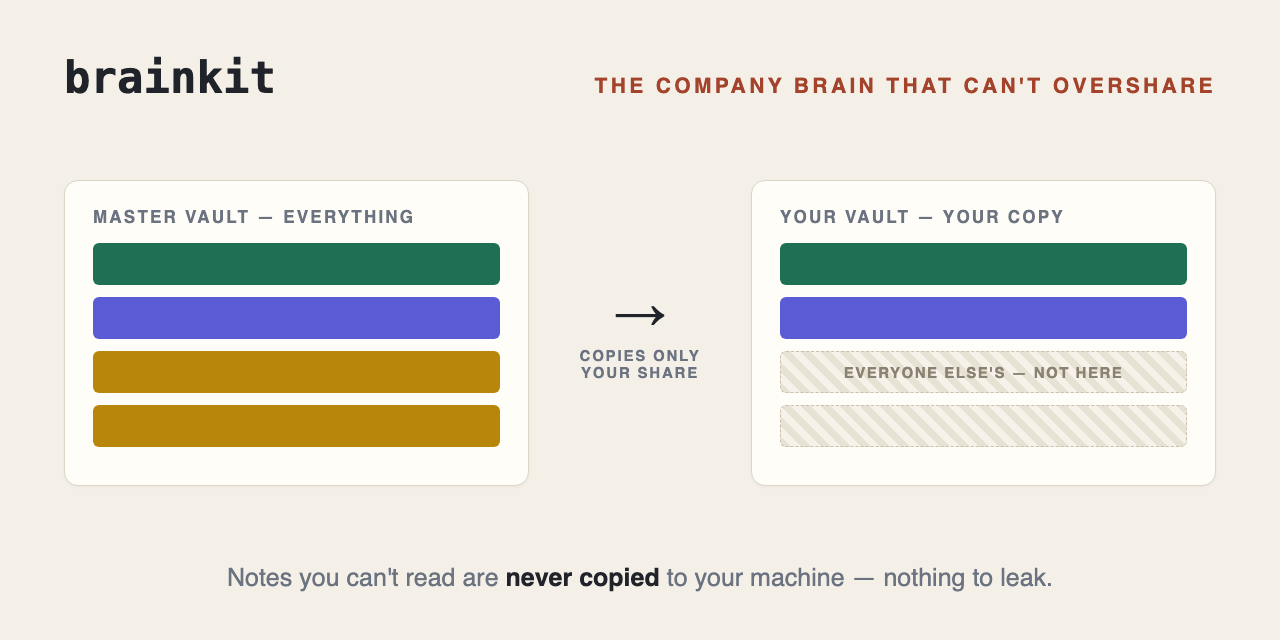
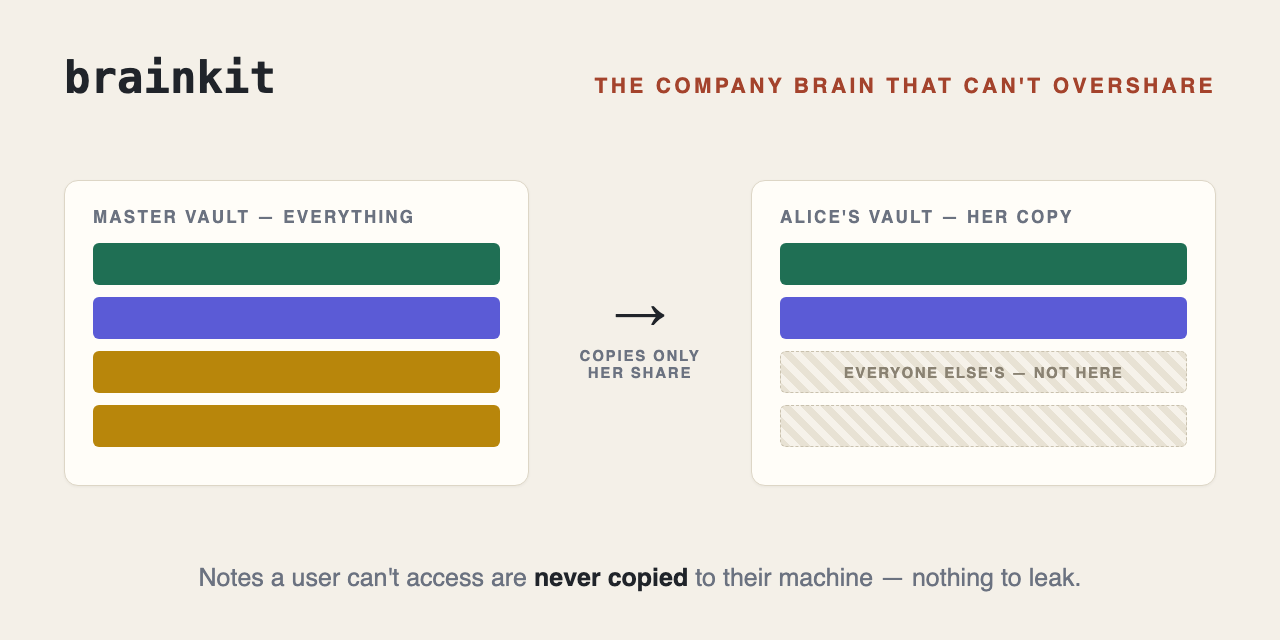
docs: reword the social card from the admin's standpoint
The card's reader is the evaluating admin, not the end user. Footer
becomes "Notes a user can't access are never copied to their machine",
and the right panel follows the README diagram's Alice framing
("Alice's vault — her copy", "copies only her share").

Claude-Session: https://claude.ai/code/session_013F8c5BknxPNcQLUYZ51Nf7

Changed region(s): [[0.1562, 0.875, 0.8438, 0.9375], [0.5938, 0.3125, 0.8438, 0.375], [0.4375, 0.5625, 0.5625, 0.5938]]

diff --git a/.github/assets/social-preview.html b/.github/assets/social-preview.html
@@ -70,10 +70,10 @@
     </div>
     <div class="arrow">
       <div class="glyph">→</div>
-      <div class="label">COPIES ONLY<br>YOUR SHARE</div>
+      <div class="label">COPIES ONLY<br>HER SHARE</div>
     </div>
     <div class="panel">
-      <div class="panel-label">YOUR VAULT — YOUR COPY</div>
+      <div class="panel-label">ALICE'S VAULT — HER COPY</div>
       <div class="bar shared"></div>
       <div class="bar yours"></div>
       <div class="bar absent">EVERYONE ELSE'S — NOT HERE</div>
@@ -81,6 +81,6 @@
     </div>
   </div>
 
-  <footer>Notes you can't read are <b>never copied</b> to your machine — nothing to leak.</footer>
+  <footer>Notes a user can't access are <b>never copied</b> to their machine — nothing to leak.</footer>
 </body>
 </html>